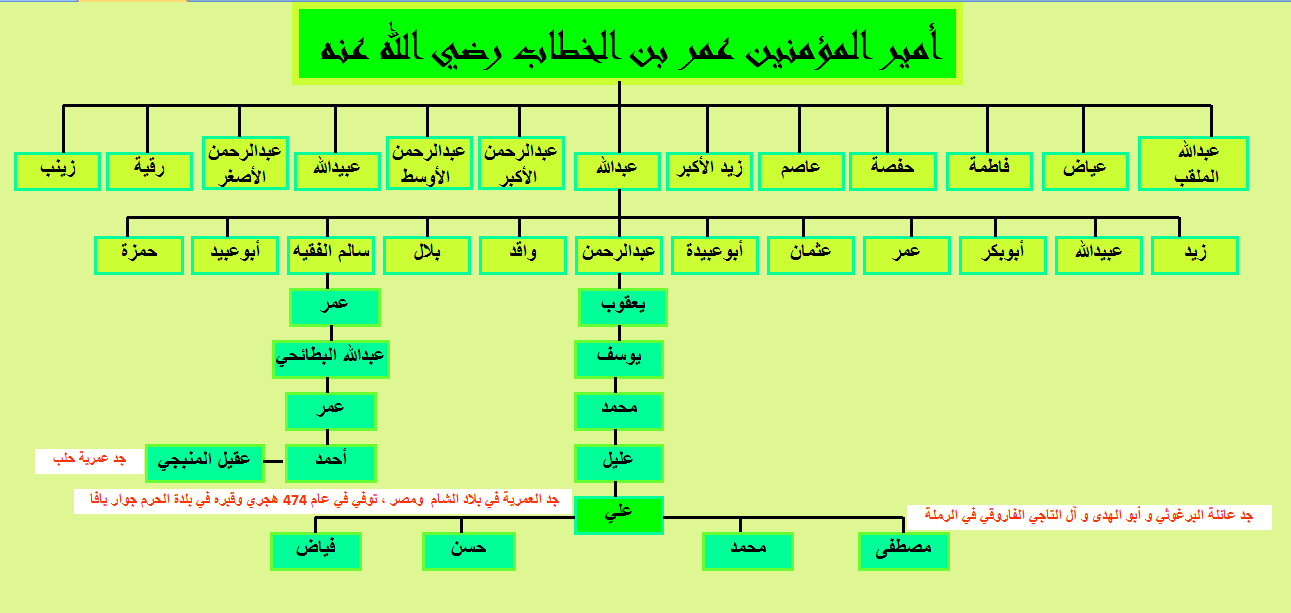
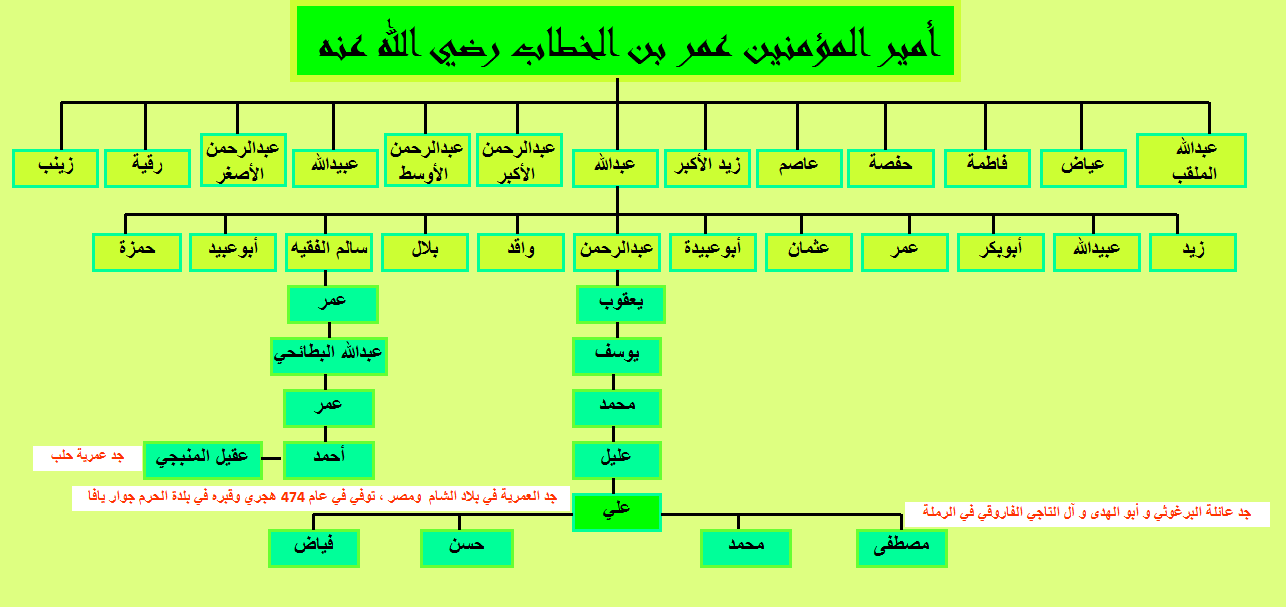
update

diff --git a/Omar bin Elkhattab.html b/Omar bin Elkhattab.html
@@ -30,32 +30,32 @@ function FP_getObjectByID(id,o) {//v1.0
 </script>
 </head>
 
-<body onload="FP_preloadImgs(/*url*/'button777.gif',/*url*/'button778.gif',/*url*/'button779.gif',/*url*/'button780.gif',/*url*/'button781.gif',/*url*/'buttonA47.gif',/*url*/'buttonC77.gif',/*url*/'buttonD43.gif',/*url*/'buttonF22.gif',/*url*/'button782.gif',/*url*/'button783.gif',/*url*/'button784.gif',/*url*/'button785.gif',/*url*/'button786.gif')" style="background-color: #DFF793">
+<body style="background-color: #DEFF81" onload="FP_preloadImgs(/*url*/'button1688.gif',/*url*/'button1689.gif',/*url*/'buttonD70.gif',/*url*/'buttonE58.gif',/*url*/'button1690.gif',/*url*/'button1A14.gif',/*url*/'button1F10.gif',/*url*/'button1691.gif',/*url*/'button1692.gif',/*url*/'button1693.gif',/*url*/'button1694.gif',/*url*/'button1695.gif',/*url*/'button1696.gif',/*url*/'button1697.gif')">
 
-<div id="layer1" style="position: absolute; width: 100px; height: 28px; z-index: 1; left: 761px; top: 203px">
+<div id="layer1" style="position: absolute; width: 90px; height: 25px; z-index: 1; left: 763px; top: 198px">
 	<a href="Iraq.html">
-	<img id="img1" alt="احفاد عاصم" height="20" onmousedown="FP_swapImg(1,0,/*id*/'img1',/*url*/'button778.gif')" onmouseout="FP_swapImg(0,0,/*id*/'img1',/*url*/'button787.gif')" onmouseover="FP_swapImg(1,0,/*id*/'img1',/*url*/'button777.gif')" onmouseup="FP_swapImg(0,0,/*id*/'img1',/*url*/'button777.gif')" src="button787.gif" style="border: 0" width="100" /><!-- MSComment="ibutton" fp-style="fp-btn: Metal Capsule 6; fp-font-style: Bold; fp-transparent: 1" fp-title="احفاد عاصم" --></a></div>
-<div id="layer2" style="position: absolute; width: 100px; height: 30px; z-index: 2; left: 1052px; top: 293px">
-	<a href="fadel1.html">
-	<img id="img2" alt="جد قبيلة الامارة" height="21" onmousedown="FP_swapImg(1,0,/*id*/'img2',/*url*/'button780.gif')" onmouseout="FP_swapImg(0,0,/*id*/'img2',/*url*/'button788.gif')" onmouseover="FP_swapImg(1,0,/*id*/'img2',/*url*/'button779.gif')" onmouseup="FP_swapImg(0,0,/*id*/'img2',/*url*/'button779.gif')" src="button788.gif" style="border: 0" width="107" /><!-- MSComment="ibutton" fp-style="fp-btn: Metal Capsule 6; fp-font-style: Bold; fp-transparent: 1" fp-title="جد قبيلة الامارة" --></a></div>
-<div id="layer3" style="position: absolute; width: 135px; height: 34px; z-index: 3; left: 857px; top: 586px">
-	<a href="barghooth.html">
-	<img id="img3" alt="جد عائلة البرغوثي" height="27" onmousedown="FP_swapImg(1,0,/*id*/'img3',/*url*/'buttonA47.gif')" onmouseout="FP_swapImg(0,0,/*id*/'img3',/*url*/'button789.gif')" onmouseover="FP_swapImg(1,0,/*id*/'img3',/*url*/'button781.gif')" onmouseup="FP_swapImg(0,0,/*id*/'img3',/*url*/'button781.gif')" src="button789.gif" style="border: 0" width="135" /><!-- MSComment="ibutton" fp-style="fp-btn: Metal Capsule 6; fp-font-style: Bold; fp-transparent: 1" fp-title="جد عائلة البرغوثي" --></a></div>
-<div id="layer4" style="position: absolute; width: 143px; height: 35px; z-index: 4; left: 691px; top: 584px">
-	<a href="anan.html">
-	<img id="img4" alt="جد السادة العنانية" height="27" onmousedown="FP_swapImg(1,0,/*id*/'img4',/*url*/'buttonD43.gif')" onmouseout="FP_swapImg(0,0,/*id*/'img4',/*url*/'buttonB54.gif')" onmouseover="FP_swapImg(1,0,/*id*/'img4',/*url*/'buttonC77.gif')" onmouseup="FP_swapImg(0,0,/*id*/'img4',/*url*/'buttonC77.gif')" src="buttonB54.gif" style="border: 0" width="135" /><!-- MSComment="ibutton" fp-style="fp-btn: Metal Capsule 6; fp-font-style: Bold; fp-transparent: 1" fp-title="جد السادة العنانية" --></a></div>
-<div id="layer5" style="position: absolute; width: 138px; height: 36px; z-index: 5; left: 422px; top: 588px">
-	<a href="demashag.html">
-	<img id="img5" alt="آل عبدالهادي" height="27" onmousedown="FP_swapImg(1,0,/*id*/'img5',/*url*/'button782.gif')" onmouseout="FP_swapImg(0,0,/*id*/'img5',/*url*/'buttonE31.gif')" onmouseover="FP_swapImg(1,0,/*id*/'img5',/*url*/'buttonF22.gif')" onmouseup="FP_swapImg(0,0,/*id*/'img5',/*url*/'buttonF22.gif')" src="buttonE31.gif" style="border: 0" width="135" /><!-- MSComment="ibutton" fp-style="fp-btn: Metal Capsule 6; fp-font-style: Bold; fp-transparent: 1" fp-title="آل عبدالهادي" --></a></div>
-<div id="layer6" style="position: absolute; width: 178px; height: 46px; z-index: 6; left: 222px; top: 588px">
+	<img id="img1" alt="احفاد عاصم" height="18" onmousedown="FP_swapImg(1,0,/*id*/'img1',/*url*/'button1689.gif')" onmouseout="FP_swapImg(0,0,/*id*/'img1',/*url*/'button1698.gif')" onmouseover="FP_swapImg(1,0,/*id*/'img1',/*url*/'button1688.gif')" onmouseup="FP_swapImg(0,0,/*id*/'img1',/*url*/'button1688.gif')" src="button1698.gif" style="border: 0" width="90" /><!-- MSComment="ibutton" fp-style="fp-btn: Metal Capsule 6; fp-font-style: Bold; fp-transparent: 1" fp-title="احفاد عاصم" --></a></div>
+<div id="layer2" style="position: absolute; width: 100px; height: 32px; z-index: 2; left: 971px; top: 317px">
+	<div id="layer3" style="position: absolute; width: 98px; height: 32px; z-index: 1; left: 86px; top: -31px">
+		<a href="fadel1.html">
+	<img id="img2" alt="جد قبيلة الامارة" height="20" onmousedown="FP_swapImg(1,0,/*id*/'img2',/*url*/'buttonE58.gif')" onmouseout="FP_swapImg(0,0,/*id*/'img2',/*url*/'buttonC105.gif')" onmouseover="FP_swapImg(1,0,/*id*/'img2',/*url*/'buttonD70.gif')" onmouseup="FP_swapImg(0,0,/*id*/'img2',/*url*/'buttonD70.gif')" src="buttonC105.gif" style="border: 0" width="100" /><!-- MSComment="ibutton" fp-style="fp-btn: Metal Capsule 6; fp-font-style: Bold; fp-transparent: 1" fp-title="جد قبيلة الامارة" --></a></div>
+</div>
+<div id="layer4" style="position: absolute; width: 168px; height: 40px; z-index: 3; left: 208px; top: 579px">
 	<a href="fayad-bin-ali.html">
-	<img id="img6" alt="جد العمرية في بلاد الشام" height="35" onmousedown="FP_swapImg(1,0,/*id*/'img6',/*url*/'button784.gif')" onmouseout="FP_swapImg(0,0,/*id*/'img6',/*url*/'button790.gif')" onmouseover="FP_swapImg(1,0,/*id*/'img6',/*url*/'button783.gif')" onmouseup="FP_swapImg(0,0,/*id*/'img6',/*url*/'button783.gif')" src="button790.gif" style="border: 0" width="176" /><!-- MSComment="ibutton" fp-style="fp-btn: Metal Capsule 6; fp-font-style: Bold; fp-transparent: 1" fp-title="جد العمرية في بلاد الشام" --></a></div>
-<div id="layer7" style="position: absolute; width: 120px; height: 31px; z-index: 7; left: 34px; top: 31px">
+	<img id="img6" alt="جد العمرية في بلاد الشام" height="34" onmousedown="FP_swapImg(1,0,/*id*/'img6',/*url*/'button1A14.gif')" onmouseout="FP_swapImg(0,0,/*id*/'img6',/*url*/'button1699.gif')" onmouseover="FP_swapImg(1,0,/*id*/'img6',/*url*/'button1690.gif')" onmouseup="FP_swapImg(0,0,/*id*/'img6',/*url*/'button1690.gif')" src="button1699.gif" style="border: 0" width="170" /><!-- MSComment="ibutton" fp-style="fp-btn: Metal Capsule 6; fp-font-style: Bold; fp-transparent: 1" fp-title="جد العمرية في بلاد الشام" --></a></div>
+<div id="layer5" style="position: absolute; width: 133px; height: 33px; z-index: 4; left: 414px; top: 581px">
+	<a href="demashag.html">
+	<img id="img5" alt="آل عبدالهادي" height="27" onmousedown="FP_swapImg(1,0,/*id*/'img5',/*url*/'button1691.gif')" onmouseout="FP_swapImg(0,0,/*id*/'img5',/*url*/'button1E10.gif')" onmouseover="FP_swapImg(1,0,/*id*/'img5',/*url*/'button1F10.gif')" onmouseup="FP_swapImg(0,0,/*id*/'img5',/*url*/'button1F10.gif')" src="button1E10.gif" style="border: 0" width="135" /><!-- MSComment="ibutton" fp-style="fp-btn: Metal Capsule 6; fp-font-style: Bold; fp-transparent: 1" fp-title="آل عبدالهادي" --></a></div>
+<div id="layer6" style="position: absolute; width: 134px; height: 32px; z-index: 5; left: 691px; top: 578px">
+	<a href="anan.html">
+	<img id="img4" alt="جد السادة العنانية" height="27" onmousedown="FP_swapImg(1,0,/*id*/'img4',/*url*/'button1693.gif')" onmouseout="FP_swapImg(0,0,/*id*/'img4',/*url*/'button1700.gif')" onmouseover="FP_swapImg(1,0,/*id*/'img4',/*url*/'button1692.gif')" onmouseup="FP_swapImg(0,0,/*id*/'img4',/*url*/'button1692.gif')" src="button1700.gif" style="border: 0" width="135" /><!-- MSComment="ibutton" fp-style="fp-btn: Metal Capsule 6; fp-font-style: Bold; fp-transparent: 1" fp-title="جد السادة العنانية" --></a></div>
+<div id="layer7" style="position: absolute; width: 135px; height: 36px; z-index: 6; left: 854px; top: 579px">
+	<a href="barghooth.html">
+	<img id="img3" alt="جد عائلة البرغوثي" height="27" onmousedown="FP_swapImg(1,0,/*id*/'img3',/*url*/'button1695.gif')" onmouseout="FP_swapImg(0,0,/*id*/'img3',/*url*/'button1701.gif')" onmouseover="FP_swapImg(1,0,/*id*/'img3',/*url*/'button1694.gif')" onmouseup="FP_swapImg(0,0,/*id*/'img3',/*url*/'button1694.gif')" src="button1701.gif" style="border: 0" width="135" /><!-- MSComment="ibutton" fp-style="fp-btn: Metal Capsule 6; fp-font-style: Bold; fp-transparent: 1" fp-title="جد عائلة البرغوثي" --></a></div>
+<div id="layer8" style="position: absolute; width: 120px; height: 29px; z-index: 7; left: 10px; top: 15px">
 	<a href="index.html">
-	<img id="img7" alt="الصفحة الرئيسية" height="24" onmousedown="FP_swapImg(1,0,/*id*/'img7',/*url*/'button786.gif')" onmouseout="FP_swapImg(0,0,/*id*/'img7',/*url*/'button791.gif')" onmouseover="FP_swapImg(1,0,/*id*/'img7',/*url*/'button785.gif')" onmouseup="FP_swapImg(0,0,/*id*/'img7',/*url*/'button785.gif')" src="button791.gif" style="border: 0" width="120" /><!-- MSComment="ibutton" fp-style="fp-btn: Metal Capsule 3; fp-font-style: Bold; fp-transparent: 1" fp-title="الصفحة الرئيسية" --></a></div>
-<p>
-<img alt="" height="613" src="Omar%20bin%20Elkhattab.png" width="1291" /></p>
-&nbsp;
+	<img id="img7" alt="الصفحة الرئيسية" height="24" onmousedown="FP_swapImg(1,0,/*id*/'img7',/*url*/'button1697.gif')" onmouseout="FP_swapImg(0,0,/*id*/'img7',/*url*/'button1702.gif')" onmouseover="FP_swapImg(1,0,/*id*/'img7',/*url*/'button1696.gif')" onmouseup="FP_swapImg(0,0,/*id*/'img7',/*url*/'button1696.gif')" src="button1702.gif" style="border: 0" width="120" /><!-- MSComment="ibutton" fp-style="fp-btn: Metal Capsule 3; fp-font-style: Bold; fp-transparent: 1" fp-title="الصفحة الرئيسية" --></a></div>
+<img alt="" height="607" src="Omar%20bin%20Elkhattab.png" width="1286" />
 
 </body>
 
